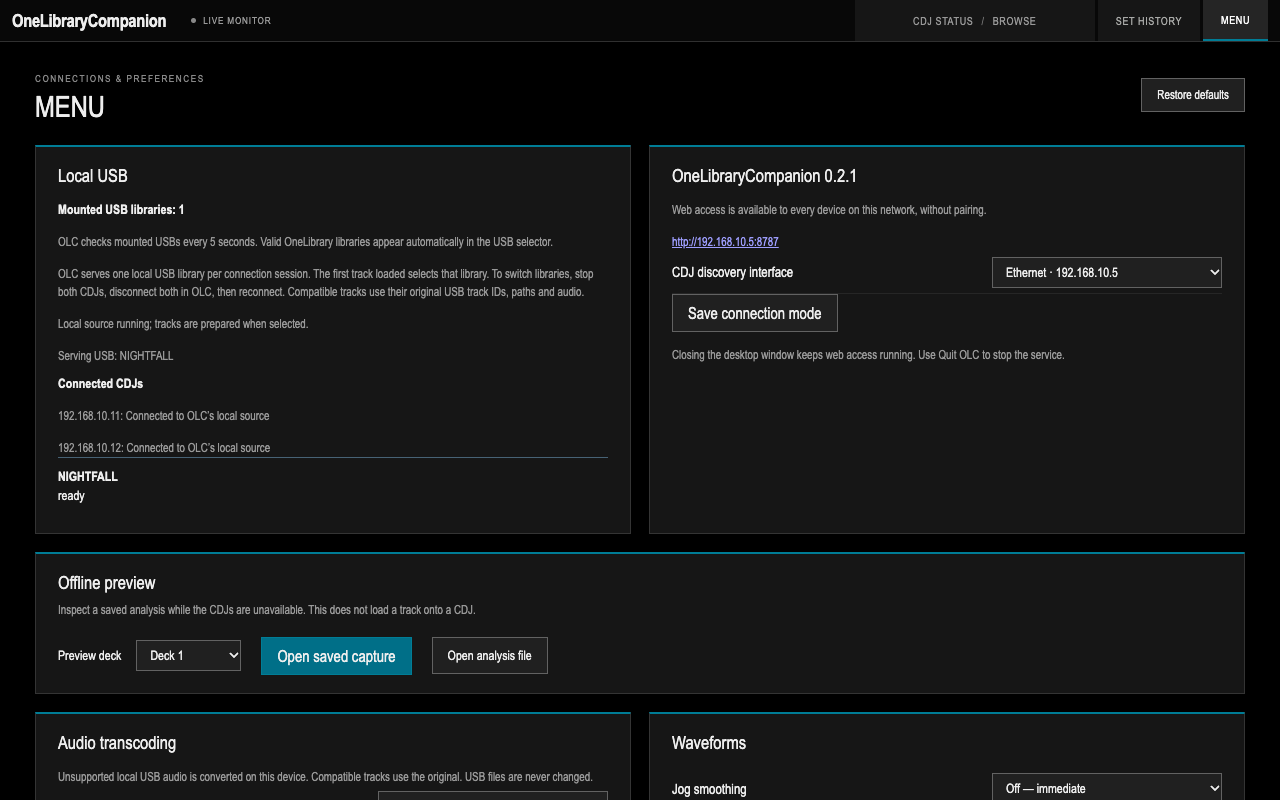
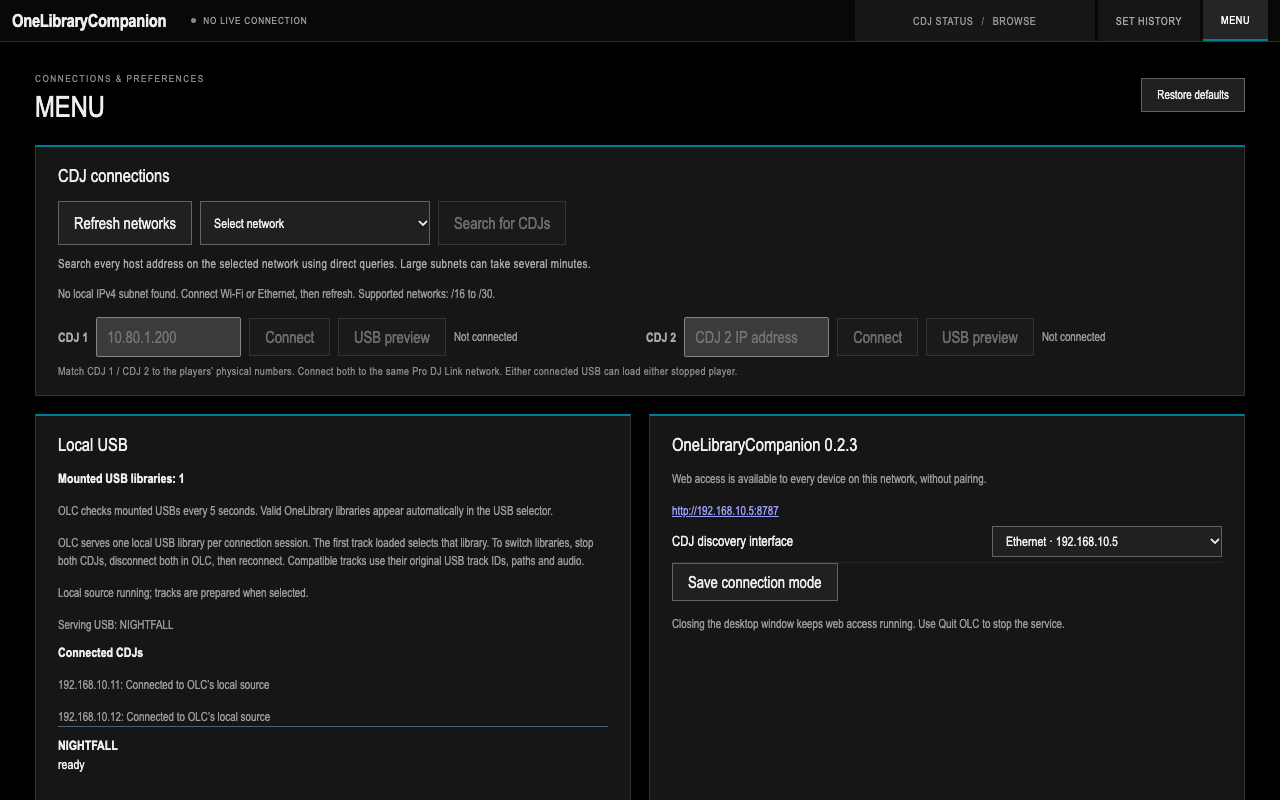
Release 0.2.3: remove Offline preview from the normal Menu

diff --git a/source/ui/src/main.tsx b/source/ui/src/main.tsx
@@ -16,7 +16,6 @@ import { Library } from "./Library";
 import { activeMixKey } from "./keyCompatibility";
 import { SetHistory } from "./SetHistory";
 import { Configuration } from "./Configuration";
-import { OfflinePreview } from "./OfflinePreview";
 import { HostSettings } from "./HostSettings";
 const Experiments = __OLC_EXPERIMENTS__
   ? lazy(() => import("./Experiments"))
@@ -269,16 +268,7 @@ function App() {
             players={live.decks.flatMap((deck) =>
               deck?.live ? [deck.live] : [],
             )}
-            desktopTools={
-              !__OLC_EXPERIMENTS__ ? (
-                <>
-                  <HostSettings />
-                  <OfflinePreview
-                    {...{ previewDeck, setPreviewDeck, busy, load, error }}
-                  />
-                </>
-              ) : null
-            }
+            desktopTools={!__OLC_EXPERIMENTS__ ? <HostSettings /> : null}
             directPeers={live.directPeers}
             onConnected={(id) => {
               if (id) {
@@ -356,13 +346,11 @@ function App() {
                   <span>
                     CDJ status will appear when a live source is connected.
                   </span>
-                  <button
-                    onClick={() =>
-                      setPage(__OLC_EXPERIMENTS__ ? "test" : "config")
-                    }
-                  >
-                    Open offline preview
-                  </button>
+                  {__OLC_EXPERIMENTS__ && (
+                    <button onClick={() => setPage("test")}>
+                      Open offline preview
+                    </button>
+                  )}
                 </>
               )}
             </footer>

diff --git a/docs/distribution.md b/docs/distribution.md
@@ -15,10 +15,10 @@ Closing the window keeps OLC running. **Quit OLC** stops it. **Open at Login** i
 
 ## Raspberry Pi Desktop
 
-Use a **Pi 4 or 5 with Raspberry Pi OS Bookworm or later, 64-bit**. Download both ARM64 `.deb` packages from the same release into one folder. For version 0.2.2, run this command in that folder:
+Use a **Pi 4 or 5 with Raspberry Pi OS Bookworm or later, 64-bit**. Download both ARM64 `.deb` packages from the same release into one folder. For version 0.2.3, run this command in that folder:
 
 ```sh
-sudo apt install ./onelibrarycompanion-host_0.2.2_arm64.deb ./onelibrarycompanion_0.2.2_arm64.deb
+sudo apt install ./onelibrarycompanion-host_0.2.3_arm64.deb ./onelibrarycompanion_0.2.3_arm64.deb
 ```
 
 Open OneLibraryCompanion from the applications menu. It has its own desktop window, with full-screen and login-startup options. A compatible touchscreen is supported; use the system's on-screen keyboard for typing. Mount the music USB through the operating system before selecting it in OLC.
@@ -41,7 +41,7 @@ Keep OLC running, the computer awake and the USB attached while serving music or
 To use a Pi only through other devices' browsers, install the host package on 64-bit Raspberry Pi OS Lite and start its user service:
 
 ```sh
-sudo apt install ./onelibrarycompanion-host_0.2.2_arm64.deb
+sudo apt install ./onelibrarycompanion-host_0.2.3_arm64.deb
 systemctl --user enable --now olc-host.service
 ```
 

diff --git a/docs/release-notes.md b/docs/release-notes.md
@@ -1,4 +1,8 @@
-# OneLibraryCompanion 0.2.2
+# OneLibraryCompanion 0.2.3
+
+## Menu cleanup
+
+- Removed Offline preview from MENU and the disconnected status screen.
 
 ## Browse refresh fixes
 
@@ -39,9 +43,9 @@ OLC also provides two-deck live status, three-band waveforms, playlist browsing,
 
 ## Downloads and setup
 
-- Apple Silicon: `OneLibraryCompanion-0.2.2-macos-arm64.dmg` or `.zip`.
-- Intel Mac: `OneLibraryCompanion-0.2.2-macos-x86_64.dmg` or `.zip`.
-- Raspberry Pi Desktop: install both `onelibrarycompanion-host_0.2.2_arm64.deb` and `onelibrarycompanion_0.2.2_arm64.deb`.
+- Apple Silicon: `OneLibraryCompanion-0.2.3-macos-arm64.dmg` or `.zip`.
+- Intel Mac: `OneLibraryCompanion-0.2.3-macos-x86_64.dmg` or `.zip`.
+- Raspberry Pi Desktop: install both `onelibrarycompanion-host_0.2.3_arm64.deb` and `onelibrarycompanion_0.2.3_arm64.deb`.
 - Pi headless: install the host package and enable its user service.
 
 Mac requires macOS 13+; Pi requires 64-bit Raspberry Pi OS Bookworm or later. Mac packages are ad-hoc signed and not notarized. On Mac, install **Local USB Support** from the application menu, then quit and reopen OLC. Reinstall this component after updating OLC. The Pi package grants the host its required port-binding capability.

diff --git a/README.md b/README.md
@@ -12,7 +12,6 @@ Your library, both CDJs and your set history in one place. OLC runs on Mac or Ra
 - **Use more tracks on older CDJs:** built-in audio transcoding prepares supported files such as FLAC and ALAC as compatible WAV or AIFF when the destination needs it. No separate converter is required.
 - **Record and reuse sets:** capture your tracklist, edit it, import supported rekordbox histories, revisit past sets as playlists, and export text, CSV or PDF.
 - **Choose your setup:** use the standalone app or a browser on the same network, with mouse, keyboard or touch. Adjust the waveform display, visible filters and track-list size to suit you.
-- **Preview away from the decks:** inspect an exported waveform analysis file without connecting a CDJ.
 
 Use **CDJ STATUS / BROWSE** to switch between the two screens. Its text uses the same size as the other navigation buttons.
 

diff --git a/docs/configuration.md b/docs/configuration.md
@@ -38,10 +38,6 @@ OLC shows conversion progress and offers cancellation during preparation. CDJ ST
 
 Open **Local USB** in MENU to check attached libraries, connected players and any loading messages directly in the panel. Select the library itself in BROWSE.
 
-## Offline preview
-
-Open an exported analysis file to inspect its waveform without loading a CDJ. Choose **Show live CDJs** to return to the players.
-
 ## Preference storage
 
 Display choices and filter presets are saved separately on each device or browser. Connections and transcoding settings apply to the shared host. History and host settings are stored in the [application data directory](distribution.md#data-and-backups).
